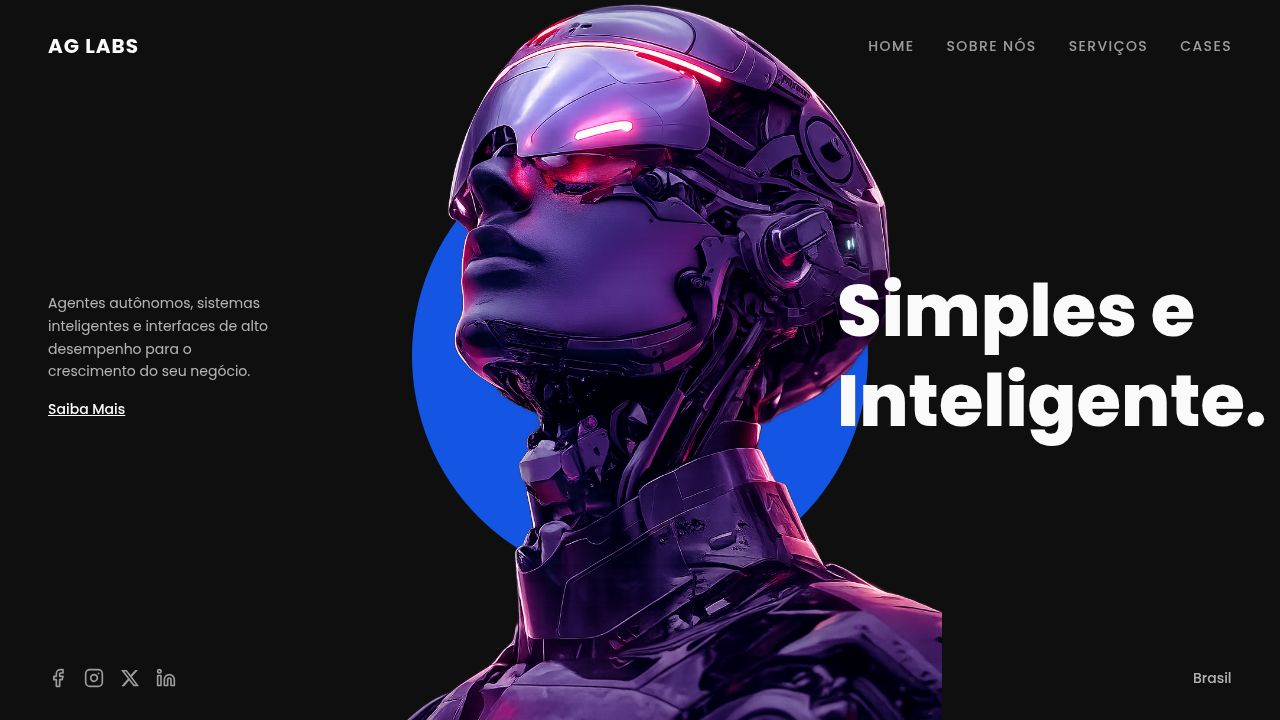
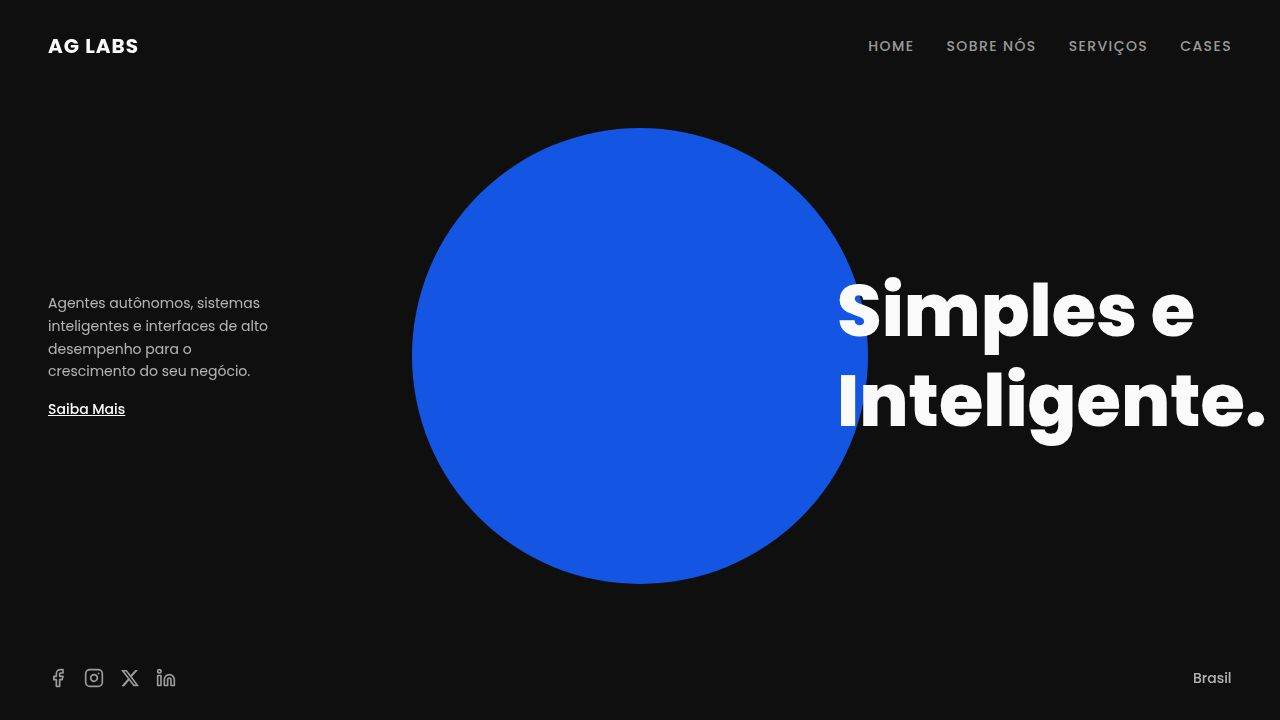
Add email capture component and Supabase integration
Installs @user/supabase-js, creates a Supabase client in src/lib/supabase.ts using VITE_SUPABASE_URL and VITE_SUPABASE_ANON_KEY environment variables.

Replit-Commit-Author: Agent
Replit-Commit-Session-Id: 7e2c4f32-b253-4a4c-9e0a-7b1178bac92b
Replit-Commit-Checkpoint-Type: full_checkpoint
Replit-Commit-Event-Id: 9ba6761f-59e5-4ee0-acd8-8f83d854c85c
Replit-Commit-Screenshot-Url: https://storage.googleapis.com/screenshot-production-us-central1/bedcdac6-4ad7-4085-b578-daea61fa4fda/7e2c4f32-b253-4a4c-9e0a-7b1178bac92b/XqRbDQ5
Replit-Helium-Checkpoint-Created: true

Changed region(s): [[0.3125, 0.0, 0.75, 1.0]]

diff --git a/artifacts/ai-agency/src/lib/supabase.ts b/artifacts/ai-agency/src/lib/supabase.ts
@@ -1,0 +1,6 @@
+import { createClient } from "@supabase/supabase-js";
+
+const supabaseUrl = import.meta.env.VITE_SUPABASE_URL as string;
+const supabaseAnonKey = import.meta.env.VITE_SUPABASE_ANON_KEY as string;
+
+export const supabase = createClient(supabaseUrl, supabaseAnonKey);